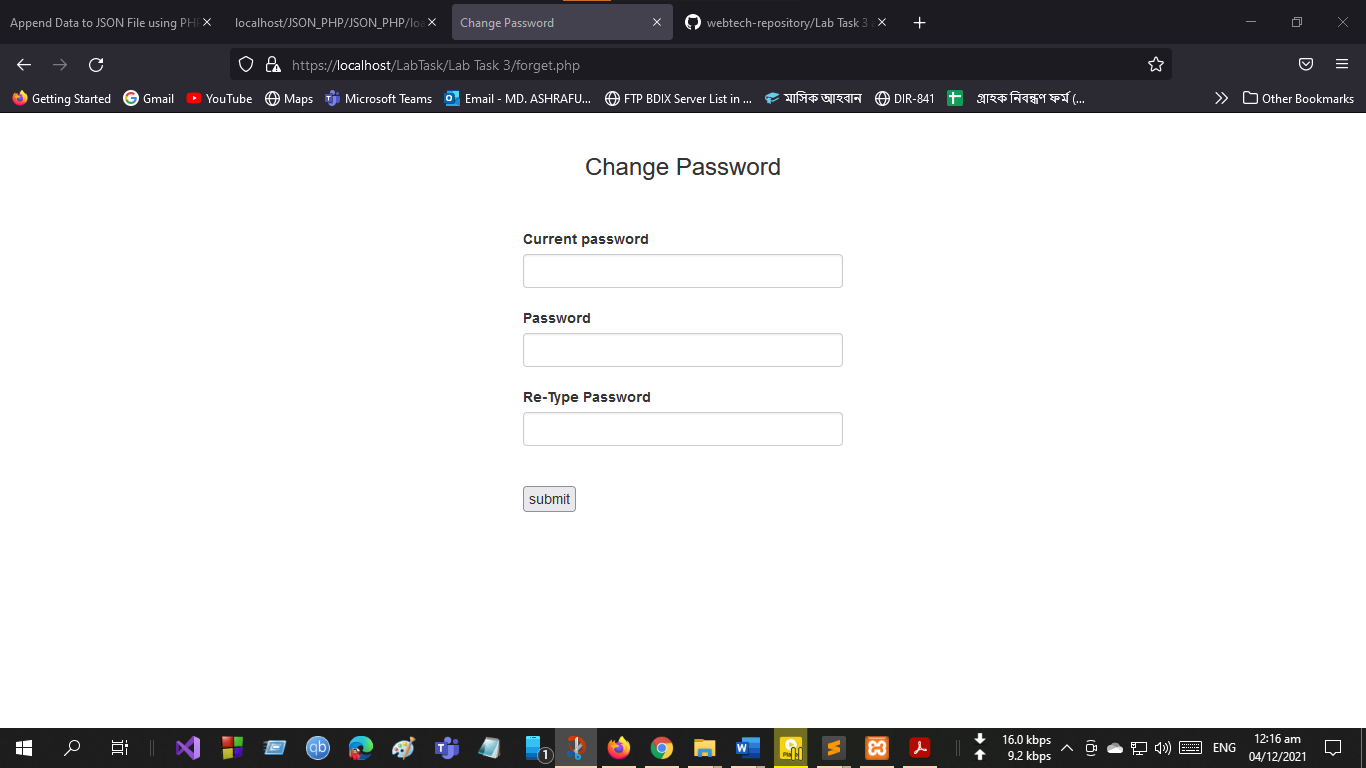
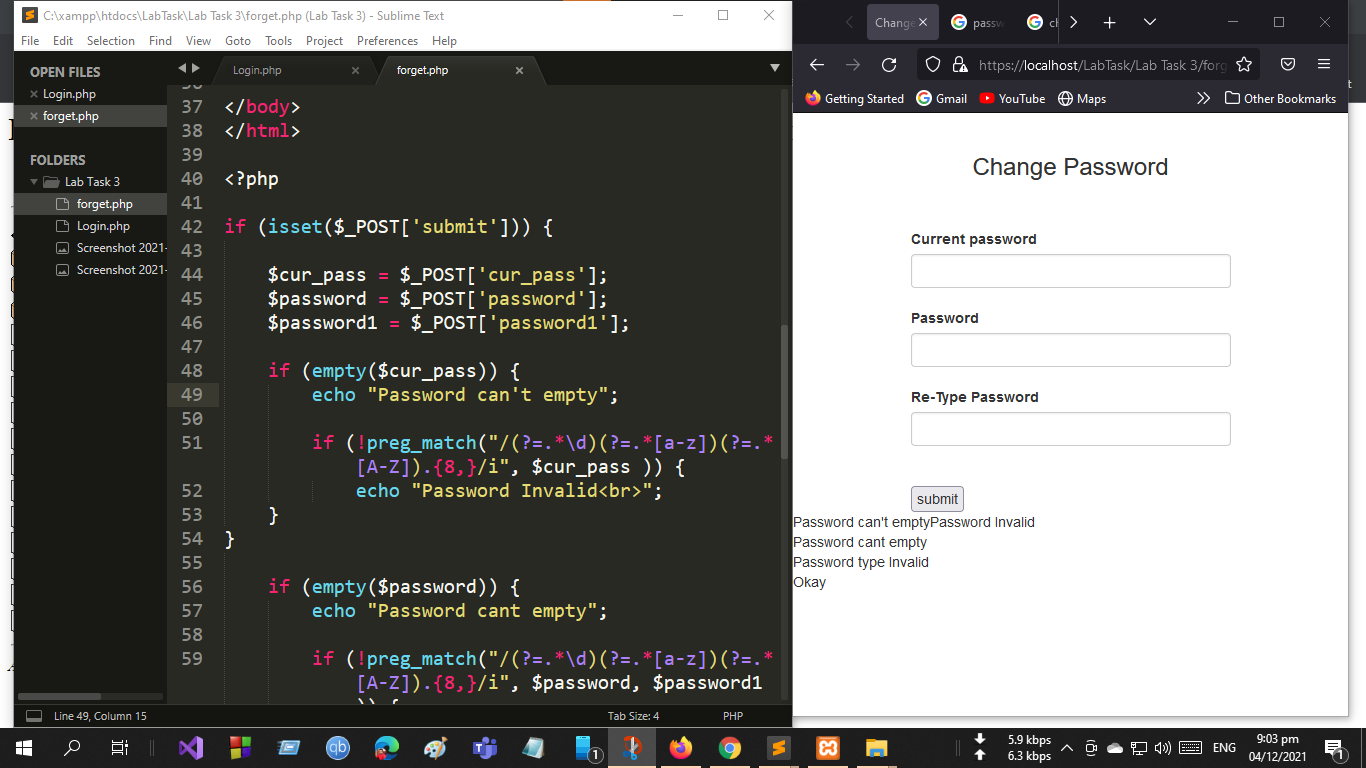
commit 6

diff --git a/Lab Task 3/forget.php b/Lab Task 3/forget.php
@@ -12,17 +12,17 @@
 		<h3 align="center">Change Password</h3>
 		<br />
 
-		<form method="POST" action="login.php">
+		<form method="POST" action="">
 			
 			<br />
 			<label>Current password</label>
-			<input type="password" name="cur_pass" class="form-control" /> <br />
+			<input type="text" name="cur_pass" class="form-control" /> <br />
 
 			<label>Password</label>
-			<input type="password" name="password" class="form-control" /> <br />
+			<input type="text" name="password" class="form-control" /> <br />
 
 			<label>Re-Type Password</label>
-			<input type="password" name="password" class="form-control" /> <br />
+			<input type="text" name="password1" class="form-control" /> <br />
 
 			<!-- <select></select> -->
 			<!-- <input type="checkbox" name="checkbox">
@@ -36,3 +36,44 @@
 
 </body>
 </html>
+
+<?php
+
+if (isset($_POST['submit'])) {
+
+	$cur_pass = $_POST['cur_pass'];
+	$password = $_POST['password'];
+	$password1 = $_POST['password1'];
+
+	if (empty($cur_pass)) {
+		echo "Password can't empty";
+
+		if (!preg_match("/(?=.*\d)(?=.*[a-z])(?=.*[A-Z]).{8,}/i", $cur_pass )) {
+			echo "Password Invalid<br>";
+	}
+}
+	
+	if (empty($password)) {
+		echo "Password cant empty";
+
+		if (!preg_match("/(?=.*\d)(?=.*[a-z])(?=.*[A-Z]).{8,}/i", $password, $password1 )) {
+		echo "<br>Password type Invalid<br>";
+
+		if ($_POST['password'] != $_POST['password1']) {
+		echo "<br>Password did not match<br>";
+	}
+
+	else 
+		echo "Okay";
+	}
+	}
+
+	
+
+	// echo $cur_pass ."<br>";
+	// echo $password ."<br>";
+	// echo $password1 ."<br>";
+
+
+}
+?>

diff --git a/Lab Task 3/Login.php b/Lab Task 3/Login.php
@@ -13,15 +13,16 @@
 		<br />
 
 		<p><span class="error">* required field</span></p>
-		<form method="POST" action= "<?php echo htmlspecialchars($_SERVER["PHP_SELF"]);?>">
+		<form method="POST" action= "<?php echo htmlspecialchars($_SERVER['PHP_SELF']);?>">
 			
 			<br />
 			<label>User name</label>
 			<input type="text" name="username" class="form-control" / required="username"> <br />
+			<!-- <span class="error">*<?php echo $usernameErr ; ?> </span> <br /> -->
 
 			<label>Password</label>
 			<input type="password" name="password" class="form-control" / required="password" > 
-			<!-- <span class="error">* <?php echo $passErr ; ?> </span> -->
+			
 			<br />
 
 			<!-- <select></select> -->
@@ -41,15 +42,13 @@
 
 <?php
 
-	
-
 if (isset($_POST['submit'])) {
 
 	$username = $_POST['username'];
 	$password = $_POST['password'];
 
 	if(!preg_match("/^\w{5,}$/", $username)) {
-		echo "User name must contain alpha numaric, period, dash or underscore <br>";  //[0-9A-Za-z_]
+		$usernameErr = "User name must contain alpha numaric, period, dash or underscore <br>";  //[0-9A-Za-z_]
 	}
 
 	if (!preg_match("/(?=.*\d)(?=.*[a-z])(?=.*[A-Z]).{8,}/i", $password )) {
